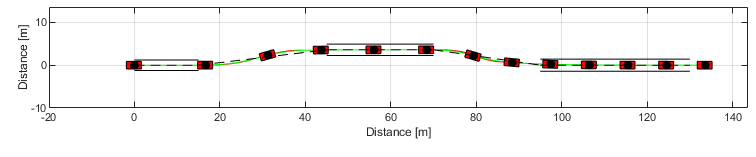
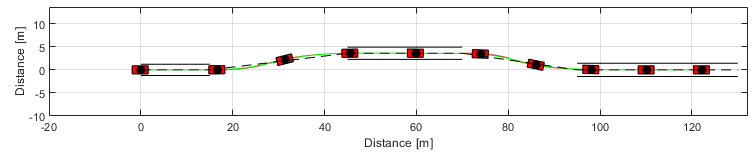
fix steering control simple

diff --git a/Examples/SteeringControlSimple/html/SteeringControlSimple.html b/Examples/SteeringControlSimple/html/SteeringControlSimple.html
@@ -6,7 +6,7 @@
    <!--
 This HTML was auto-generated from MATLAB code.
 To make changes, update the MATLAB code and republish this document.
-      --><title>Steering Control Simple</title><meta name="generator" content="MATLAB 9.7"><link rel="schema.DC" href="http://purl.org/dc/elements/1.1/"><meta name="DC.date" content="2020-12-21"><meta name="DC.source" content="SteeringControlSimple.m"><style type="text/css">
+      --><title>Steering Control Simple</title><meta name="generator" content="MATLAB 9.7"><link rel="schema.DC" href="http://purl.org/dc/elements/1.1/"><meta name="DC.date" content="2021-01-21"><meta name="DC.source" content="SteeringControlSimple.m"><style type="text/css">
 html,body,div,span,applet,object,iframe,h1,h2,h3,h4,h5,h6,p,blockquote,pre,a,abbr,acronym,address,big,cite,code,del,dfn,em,font,img,ins,kbd,q,s,samp,small,strike,strong,sub,sup,tt,var,b,u,i,center,dl,dt,dd,ol,ul,li,fieldset,form,label,legend,table,caption,tbody,tfoot,thead,tr,th,td{margin:0;padding:0;border:0;outline:0;font-size:100%;vertical-align:baseline;background:transparent}body{line-height:1}ol,ul{list-style:none}blockquote,q{quotes:none}blockquote:before,blockquote:after,q:before,q:after{content:'';content:none}:focus{outine:0}ins{text-decoration:none}del{text-decoration:line-through}table{border-collapse:collapse;border-spacing:0}
 
 html { min-height:100%; margin-bottom:1px; }
@@ -68,7 +68,7 @@ table td { padding:7px 5px; text-align:left; vertical-align:top; border:1px soli
 
   </style></head><body><div class="content"><h1>Steering Control Simple</h1><!--introduction--><p>Steering Control of Autonomous Vehicles in Obstacle Avoidance Maneuvers.</p><p><img vspace="5" hspace="5" src="SteeringControlSimple.gif" alt=""> </p><p>
 <script src='https://cdn.mathjax.org/mathjax/latest/MathJax.js?config=TeX-AMS-MML_HTMLorMML'></script>
-</p><!--/introduction--><h2>Contents</h2><div><ul><li><a href="#1">Vehicle model</a></li><li><a href="#2">Tire model</a></li><li><a href="#4">Plant model</a></li><li><a href="#5">Controller design</a></li><li><a href="#17">Double Lane Change Maneuver</a></li><li><a href="#18">See Also</a></li></ul></div><h2 id="1">Vehicle model</h2><p><b>Bicycle model</b></p><p><img vspace="5" hspace="5" src="../../../docs/illustrations/modelSimple.svg" alt=""> </p><p><b>Nonlinear model</b></p><p>State vector</p><p>\[ {\bf x} = \left[ \begin{array}{c} {\rm x}_1 \\ {\rm x}_2 \\ {\rm x}_3 \\ {\rm x}_4 \\ {\rm x}_5 \\ {\rm x}_6 \end{array} \right] = \left[ \begin{array}{c} x \\ y \\ \psi \\ v_{\rm T} \\ \alpha_{\rm T} \\ \dot{\psi} \end{array} \right] \]</p><p>State equations</p><p>\[ \dot{{\rm x}}_1 = {\rm x}_4 \cos \left( {\rm x}_3 + {\rm x}_5 \right) \]</p><p>\[ \dot{{\rm x}}_2 = {\rm x}_4 \sin \left( {\rm x}_3 + {\rm x}_5 \right) \]</p><p>\[ \dot{{\rm x}}_3 = {\rm x}_6 \]</p><p>\[ \dot{{\rm x}}_4 = \frac{F_{y,{\rm F}} \sin \left( {\rm x}_5 - \delta \right) + F_{y,{\rm R}} \sin {\rm x}_5}{m_{T}} \]</p><p>\[ \dot{{\rm x}}_5 = \frac{F_{y,{\rm F}} \cos \left( {\rm x}_5 - \delta \right) + F_{y,{\rm R}} \cos \alpha_{\rm T} - m_{T} {\rm x}_4 {\rm x}_6}{m_{T} {\rm x}_4} \]</p><p>\[ \dot{{\rm x}}_6 = \frac{F_{y,{\rm F}} a \cos \delta - F_{y,{\rm R}} b}{I_{T}} \]</p><p>Slip angles</p><p>\[ \alpha_{\rm F} = \arctan \left( \frac{v_{\rm T} \sin \alpha_{\rm T} + a \dot{\psi}}{ v_{\rm T} \cos \alpha_{\rm T}} \right) - \delta \]</p><p>\[ \alpha_{\rm R} = \arctan \left( \frac{v_{\rm T} \sin \alpha_{\rm T} - b \dot{\psi}}{ v_{\rm T} \cos \alpha_{\rm T}} \right) \]</p><p><b>Linear model</b></p><p>\[ \dot{x} = v_{\rm T} \]</p><p>\[ \dot{y} = v_{{\rm T},0} \left( \psi + \alpha_{{\rm T}}\right) \]</p><p>\[ \dot{\psi} = \dot{\psi} \]</p><p>\[ \dot{v}_{\rm T} = 0 \]</p><p>\[ \dot{\alpha}_{\rm T} = \frac{F_{y,{\rm F}} + F_{y,{\rm R}}}{m_{T} v_{{\rm T},0}} - \dot{\psi} \]</p><p>\[ \ddot{\psi} = \frac{a F_{y,{\rm F}} -  b F_{y,{\rm R}}}{I_{T}} \]</p><p>Neglecting equations of \(x\) and \(v_T\)</p><p>\[ \left[ \begin{array}{c} \dot{y} \\ \dot{\psi} \\ \dot{\alpha}_T \\ \ddot{\psi} \end{array} \right] = \left[ \begin{array}{cccc} 0 &amp; v_{T,0} &amp; v_{T,0} &amp; 0 \\ 0 &amp; 0 &amp; 0 &amp; 1 \\ 0 &amp; 0 &amp; -\frac{K_F+K_R}{m_T v_{T,0}} &amp; - \frac{m_T v_{T,0} + \frac{a K_F - b K_R}{v_{T,0}}}{m_T v_{T,0}} \\ 0 &amp; 0 &amp; - \frac{a K_F - b K_R}{I_T} &amp; - \frac{a^2 K_F + b^2 K_R}{I_T v_{T,0}} \end{array} \right] \left[ \begin{array}{c} y \\ \psi \\ \alpha_T \\ \dot{\psi} \end{array} \right] + \left[ \begin{array}{c} 0 \\ 0 \\ \frac{K_F}{m_T v_{T,0}} \\ \frac{a K_F}{I_T}  \end{array} \right] \delta \]</p><p>Slip angles</p><p>\[ \alpha_{{\rm F},lin} = \alpha_{{\rm T}} + \frac{a}{v_{{\rm T},0}} \dot{\psi} - \delta \]</p><p>\[ \alpha_{{\rm F},lin} = \alpha_{{\rm T}} - \frac{b}{v_{{\rm T},0}} \dot{\psi} \]</p><h2 id="2">Tire model</h2><p>Typical characteristic curve and slip angle definition</p><p><img vspace="5" hspace="5" src="../../../docs/illustrations/CurvaCaracteristica.svg" alt=""> </p><p><b>Pacejka</b></p><p>\[ F_{y} = D \sin \left[ C \arctan{B \alpha - E( B \alpha -\arctan(B \alpha))} \right] \]</p><p><b>Linear</b></p><p>\[ F_ y = K \alpha \]</p><pre class="codeinput">clear ; close <span class="string">all</span> ; clc
+</p><!--/introduction--><h2>Contents</h2><div><ul><li><a href="#1">Vehicle model</a></li><li><a href="#2">Tire model</a></li><li><a href="#4">Plant model</a></li><li><a href="#5">Controller design</a></li><li><a href="#17">Double Lane Change Maneuver</a></li><li><a href="#18">See Also</a></li></ul></div><h2 id="1">Vehicle model</h2><p><b>Nonlinear model</b></p><p>State vector</p><p>\[ {\bf x} = \left[ \begin{array}{c} {\rm x}_1 \\ {\rm x}_2 \\ {\rm x}_3 \\ {\rm x}_4 \\ {\rm x}_5 \\ {\rm x}_6 \end{array} \right] = \left[ \begin{array}{c} x \\ y \\ \psi \\ v_{\rm T} \\ \alpha_{\rm T} \\ \dot{\psi} \end{array} \right] \]</p><p>State equations</p><p>\[ \dot{{\rm x}}_1 = {\rm x}_4 \cos \left( {\rm x}_3 + {\rm x}_5 \right) \]</p><p>\[ \dot{{\rm x}}_2 = {\rm x}_4 \sin \left( {\rm x}_3 + {\rm x}_5 \right) \]</p><p>\[ \dot{{\rm x}}_3 = {\rm x}_6 \]</p><p>\[ \dot{{\rm x}}_4 = \frac{F_{y,{\rm F}} \sin \left( {\rm x}_5 - \delta \right) + F_{y,{\rm R}} \sin {\rm x}_5}{m_{T}} \]</p><p>\[ \dot{{\rm x}}_5 = \frac{F_{y,{\rm F}} \cos \left( {\rm x}_5 - \delta \right) + F_{y,{\rm R}} \cos \alpha_{\rm T} - m_{T} {\rm x}_4 {\rm x}_6}{m_{T} {\rm x}_4} \]</p><p>\[ \dot{{\rm x}}_6 = \frac{F_{y,{\rm F}} a \cos \delta - F_{y,{\rm R}} b}{I_{T}} \]</p><p>Slip angles</p><p>\[ \alpha_{\rm F} = \arctan \left( \frac{v_{\rm T} \sin \alpha_{\rm T} + a \dot{\psi}}{ v_{\rm T} \cos \alpha_{\rm T}} \right) - \delta \]</p><p>\[ \alpha_{\rm R} = \arctan \left( \frac{v_{\rm T} \sin \alpha_{\rm T} - b \dot{\psi}}{ v_{\rm T} \cos \alpha_{\rm T}} \right) \]</p><p><b>Linear model</b></p><p>\[ \dot{x} = v_{\rm T} \]</p><p>\[ \dot{y} = v_{{\rm T},0} \left( \psi + \alpha_{{\rm T}}\right) \]</p><p>\[ \dot{\psi} = \dot{\psi} \]</p><p>\[ \dot{v}_{\rm T} = 0 \]</p><p>\[ \dot{\alpha}_{\rm T} = \frac{F_{y,{\rm F}} + F_{y,{\rm R}}}{m_{T} v_{{\rm T},0}} - \dot{\psi} \]</p><p>\[ \ddot{\psi} = \frac{a F_{y,{\rm F}} -  b F_{y,{\rm R}}}{I_{T}} \]</p><p>Neglecting equations of \(x\) and \(v_T\)</p><p>\[ \left[ \begin{array}{c} \dot{y} \\ \dot{\psi} \\ \dot{\alpha}_T \\ \ddot{\psi} \end{array} \right] = \left[ \begin{array}{cccc} 0 &amp; v_{T,0} &amp; v_{T,0} &amp; 0 \\ 0 &amp; 0 &amp; 0 &amp; 1 \\ 0 &amp; 0 &amp; -\frac{K_F+K_R}{m_T v_{T,0}} &amp; - \frac{m_T v_{T,0} + \frac{a K_F - b K_R}{v_{T,0}}}{m_T v_{T,0}} \\ 0 &amp; 0 &amp; - \frac{a K_F - b K_R}{I_T} &amp; - \frac{a^2 K_F + b^2 K_R}{I_T v_{T,0}} \end{array} \right] \left[ \begin{array}{c} y \\ \psi \\ \alpha_T \\ \dot{\psi} \end{array} \right] + \left[ \begin{array}{c} 0 \\ 0 \\ \frac{K_F}{m_T v_{T,0}} \\ \frac{a K_F}{I_T}  \end{array} \right] \delta \]</p><p>Slip angles</p><p>\[ \alpha_{{\rm F},lin} = \alpha_{{\rm T}} + \frac{a}{v_{{\rm T},0}} \dot{\psi} - \delta \]</p><p>\[ \alpha_{{\rm F},lin} = \alpha_{{\rm T}} - \frac{b}{v_{{\rm T},0}} \dot{\psi} \]</p><h2 id="2">Tire model</h2><p>Typical characteristic curve and slip angle definition</p><p><img vspace="5" hspace="5" src="../../../docs/illustrations/CurvaCaracteristica.svg" alt=""> </p><p><b>Pacejka</b></p><p>\[ F_{y} = D \sin \left[ C \arctan{B \alpha - E( B \alpha -\arctan(B \alpha))} \right] \]</p><p><b>Linear</b></p><p>\[ F_ y = K \alpha \]</p><pre class="codeinput">clear ; close <span class="string">all</span> ; clc
 
 slipAngle = (0:0.1:15)*pi/180;         <span class="comment">% Slip angle [rad]</span>
 
@@ -113,10 +113,10 @@ BCD     = TirePac.a3 * sin(2 * atan(Fz/1000/TirePac.a4))*(1-TirePac.a5 * abs(cam
 
 <span class="comment">% Pneu linear equivalente</span>
 
-Ktire = BCD * 180/pi;
+Ktire   = BCD * 180/pi;
 
-TireLin = VehicleDynamicsLateral.TireLinear();
-TireLin.k = Ktire;
+TireLin     = VehicleDynamicsLateral.TireLinear();
+TireLin.k   = Ktire;
 
 <span class="comment">% Lateral force</span>
 FyPac = TirePac.Characteristic(slipAngle, Fz, muy0/1000);
@@ -155,7 +155,7 @@ VehiclePlant.deltaf = @ControlLaw;
 disp(VehiclePlant)
 
 <span class="comment">% Choosing simulation</span>
-T       = 12;                     <span class="comment">% Total simulation time             [s]</span>
+T       = 9;                     <span class="comment">% Total simulation time             [s]</span>
 resol   = 500;                    <span class="comment">% Resolution</span>
 TSPAN   = 0:T/resol:T;            <span class="comment">% Time span                         [s]</span>
 
@@ -176,7 +176,7 @@ simulator.V0 = 16.7;
        muy: 1
       tire: [1&times;1 VehicleDynamicsLateral.TirePacejka]
     deltaf: @ControlLaw
-    deltar: []
+    deltar: 0
        Fxf: 0
        Fxr: 0
 
@@ -214,17 +214,17 @@ C = [1 0 0 0];
 </pre><p>C</p><pre class="codeinput">disp(C)
 </pre><pre class="codeoutput">     1     0     0     0
 
-</pre><p><b>LQR design</b></p><pre class="codeinput">Q = [   3 0 0 0 ;<span class="keyword">...</span>
-        0 1 0 0 ;<span class="keyword">...</span>
-        0 0 1 0 ;<span class="keyword">...</span>
-        0 0 0 1 ];
+</pre><p><b>LQR design</b></p><pre class="codeinput">Q = [   0.3 0 0 0 ;<span class="keyword">...</span>
+        0   1 0 0 ;<span class="keyword">...</span>
+        0   0 1 0 ;<span class="keyword">...</span>
+        0   0 0 1 ];
 </pre><p>Q</p><pre class="codeinput">disp(Q)
 
 R = 1;
-</pre><pre class="codeoutput">     3     0     0     0
-     0     1     0     0
-     0     0     1     0
-     0     0     0     1
+</pre><pre class="codeoutput">    0.3000         0         0         0
+         0    1.0000         0         0
+         0         0    1.0000         0
+         0         0         0    1.0000
 
 </pre><p>R</p><pre class="codeinput">disp(R)
 
@@ -232,7 +232,7 @@ Klqr = lqr(A,B,Q,R);
 </pre><pre class="codeoutput">     1
 
 </pre><p>Klqr</p><pre class="codeinput">disp(Klqr)
-</pre><pre class="codeoutput">    1.7321    6.8987    2.5832    0.5898
+</pre><pre class="codeoutput">    0.5477    4.4651    1.0744    0.8169
 
 </pre><p><b>Pole placement design</b></p><pre class="codeinput">polos = [-6 -6.3 -6.7 -7];
 
@@ -240,7 +240,7 @@ Kplace = place(A,B,polos);
 </pre><p>Kplace</p><pre class="codeinput">disp(Kplace)
 </pre><pre class="codeoutput">    0.7936    6.6882    1.6107    0.5090
 
-</pre><p>Control law</p><p>\[\delta = - {\bf K} {\bf z} + K_1 r \]</p><h2 id="17">Double Lane Change Maneuver</h2><p><b>Control - Step y</b></p><p>Reference - r = 2 m</p><p>\[ \delta_{max} = \pm 70 deg \]</p><pre class="codeinput"><span class="comment">% Simulation</span>
+</pre><p>Control law</p><p>\[\delta = - {\bf K} {\bf z} + K_1 r \]</p><h2 id="17">Double Lane Change Maneuver</h2><pre class="codeinput"><span class="comment">% Simulation</span>
 simulator.Simulate();
 
 g = VehicleDynamicsLateral.Graphics(simulator);
@@ -282,14 +282,16 @@ g.Frame();
     plot([95 130],[0 0],<span class="string">'k--'</span>)
 
 g.Animation();
+g.Animation();
+<span class="comment">% g.Animation('html/SteeringControlSimple');       % Uncomment to save animation gif</span>
 
 <span class="comment">% Retrieving states</span>
-XT = simulator.XT;
-YT = simulator.YT;
-PSI = simulator.PSI;
-VEL = simulator.VEL;
-ALPHAT = simulator.ALPHAT;
-dPSI = simulator.dPSI;
+XT      = simulator.XT;
+YT      = simulator.YT;
+PSI     = simulator.PSI;
+VEL     = simulator.VEL;
+ALPHAT  = simulator.ALPHAT;
+dPSI    = simulator.dPSI;
 
 x = [YT PSI ALPHAT dPSI];
 
@@ -311,7 +313,7 @@ LateralDisp = 3.6;
 
     u(ii) = - Kplace*x(ii,:)' + Kplace(1)*r;
 
-    <span class="comment">% Saturation at 42 deg</span>
+    <span class="comment">% Saturation</span>
     <span class="keyword">if</span> abs(u(ii)) &lt; 42*pi/180
         output(ii) = u(ii);
     <span class="keyword">else</span>
@@ -358,10 +360,6 @@ set(y,<span class="string">'Interpreter'</span>,<span class="string">'Latex'</sp
 % </html>
 %
 %% Vehicle model
-% *Bicycle model*
-%
-% <<../../../docs/illustrations/modelSimple.svg>>
-%
 % *Nonlinear model*
 %
 % State vector
@@ -474,10 +472,10 @@ BCD     = TirePac.a3 * sin(2 * atan(Fz/1000/TirePac.a4))*(1-TirePac.a5 * abs(cam
 
 % Pneu linear equivalente
 
-Ktire = BCD * 180/pi;
+Ktire   = BCD * 180/pi;
 
-TireLin = VehicleDynamicsLateral.TireLinear();
-TireLin.k = Ktire;
+TireLin     = VehicleDynamicsLateral.TireLinear();
+TireLin.k   = Ktire;
 
 % Lateral force
 FyPac = TirePac.Characteristic(slipAngle, Fz, muy0/1000);
@@ -523,7 +521,7 @@ VehiclePlant.deltaf = @ControlLaw;
 disp(VehiclePlant)
 
 % Choosing simulation
-T       = 12;                     % Total simulation time             [s]
+T       = 9;                     % Total simulation time             [s]
 resol   = 500;                    % Resolution
 TSPAN   = 0:T/resol:T;            % Time span                         [s]
 
@@ -572,10 +570,10 @@ disp(C)
 % *LQR design*
 %
 
-Q = [   3 0 0 0 ;...
-        0 1 0 0 ;...
-        0 0 1 0 ;...
-        0 0 0 1 ];
+Q = [   0.3 0 0 0 ;...
+        0   1 0 0 ;...
+        0   0 1 0 ;...
+        0   0 0 1 ];
 
 %%
 % Q
@@ -615,11 +613,6 @@ disp(Kplace)
 % \[\delta = - {\bf K} {\bf z} + K_1 r \]
 %
 %% Double Lane Change Maneuver
-% *Control - Step y*
-%
-% Reference - r = 2 m
-%
-% \[ \delta_{max} = \pm 70 deg \]
 
 % Simulation
 simulator.Simulate();
@@ -663,14 +656,16 @@ g.Frame();
     plot([95 130],[0 0],'kREPLACE_WITH_DASH_DASH')
 
 g.Animation();
+g.Animation();
+% g.Animation('html/SteeringControlSimple');       % Uncomment to save animation gif
 
 % Retrieving states
-XT = simulator.XT;
-YT = simulator.YT;
-PSI = simulator.PSI;
-VEL = simulator.VEL;
-ALPHAT = simulator.ALPHAT;
-dPSI = simulator.dPSI;
+XT      = simulator.XT;
+YT      = simulator.YT;
+PSI     = simulator.PSI;
+VEL     = simulator.VEL;
+ALPHAT  = simulator.ALPHAT;
+dPSI    = simulator.dPSI;
 
 x = [YT PSI ALPHAT dPSI];
 
@@ -692,7 +687,7 @@ for ii = 1:length(TSPAN)
 
     u(ii) = - Kplace*x(ii,:)' + Kplace(1)*r;
 
-    % Saturation at 42 deg
+    % Saturation
     if abs(u(ii)) < 42*pi/180
         output(ii) = u(ii);
     else

diff --git a/docs/DocVehicleSimpleNonlinear/html/DocVehicleSimpleNonlinear.html b/docs/DocVehicleSimpleNonlinear/html/DocVehicleSimpleNonlinear.html
@@ -6,7 +6,7 @@
    <!--
 This HTML was auto-generated from MATLAB code.
 To make changes, update the MATLAB code and republish this document.
-      --><title>Vehicle Simple Nonlinear Modeling</title><meta name="generator" content="MATLAB 9.7"><link rel="schema.DC" href="http://purl.org/dc/elements/1.1/"><meta name="DC.date" content="2020-12-21"><meta name="DC.source" content="DocVehicleSimpleNonlinear.m"><style type="text/css">
+      --><title>Vehicle Simple Nonlinear Modeling</title><meta name="generator" content="MATLAB 9.7"><link rel="schema.DC" href="http://purl.org/dc/elements/1.1/"><meta name="DC.date" content="2020-12-22"><meta name="DC.source" content="DocVehicleSimpleNonlinear.m"><style type="text/css">
 html,body,div,span,applet,object,iframe,h1,h2,h3,h4,h5,h6,p,blockquote,pre,a,abbr,acronym,address,big,cite,code,del,dfn,em,font,img,ins,kbd,q,s,samp,small,strike,strong,sub,sup,tt,var,b,u,i,center,dl,dt,dd,ol,ul,li,fieldset,form,label,legend,table,caption,tbody,tfoot,thead,tr,th,td{margin:0;padding:0;border:0;outline:0;font-size:100%;vertical-align:baseline;background:transparent}body{line-height:1}ol,ul{list-style:none}blockquote,q{quotes:none}blockquote:before,blockquote:after,q:before,q:after{content:'';content:none}:focus{outine:0}ins{text-decoration:none}del{text-decoration:line-through}table{border-collapse:collapse;border-spacing:0}
 
 html { min-height:100%; margin-bottom:1px; }
@@ -66,7 +66,7 @@ table td { padding:7px 5px; text-align:left; vertical-align:top; border:1px soli
 
 
 
-  </style></head><body><div class="content"><h1>Vehicle Simple Nonlinear Modeling</h1><!--introduction--><p>This scipt derives the equations of motion from the nonlinear simple vehicle model.</p><p>For class documentation, run:</p><p><tt>doc VehicleDynamicsLateral.VehicleArticulatedNonlinear</tt></p><p>
+  </style></head><body><div class="content"><h1>Vehicle Simple Nonlinear Modeling</h1><!--introduction--><p>This scipt derives the equations of motion from the nonlinear simple vehicle model.</p><p>For class documentation, run:</p><p><tt>doc VehicleDynamicsLateral.VehicleSimpleNonlinear</tt></p><p>
 <!--
 MathJax
 Source: http://docs.mathjax.org/en/latest/start.html
@@ -410,7 +410,7 @@ ddTddq = diff(dTddq,t);
     \begin{eqnarray}
     \nonumber {\rm x}_1 &=& x 				\\
     \nonumber {\rm x}_2 &=& y 				\\
-    \nonumber {\rm x}_3 &=& \psi 			\\
+    \nonumber {\rm x}_3 &=& \psi              \\
     \nonumber {\rm x}_4 &=& v_{\rm T} 		\\
     \nonumber {\rm x}_5 &=& \alpha_{\rm T} 	\\
     \nonumber {\rm x}_6 &=& \dot{\psi}
@@ -424,7 +424,7 @@ ddTddq = diff(dTddq,t);
     \nonumber \dot{{\rm x}}_3 &=& \dot{\psi} \\
     \nonumber \dot{{\rm x}}_4 &=& \frac{F_{x,{\rm F}} \cos \left( \alpha_{\rm T} - \delta_{\rm F} \right) + F_{x,{\rm R}} \cos \left( \alpha_{\rm T} -\delta_{\rm R} \right) + F_{y,{\rm F}} \sin \left( \alpha_{\rm T} - \delta_{\rm F} \right) + F_{y,{\rm R}} \sin \left( \alpha_{\rm T} - delta_{\rm R} \right) }{m_{\rm T}} \\
     \nonumber \dot{{\rm x}}_5 &=&  \frac{- F_{x,{\rm F}} \sin \left( \alpha_{\rm T} - \delta_{\rm F} \right) - F_{x,{\rm R}} \sin \left( \alpha_{\rm T} - \delta_{\rm R} \right) + F_{y,{\rm F}} \cos \left( \alpha_{\rm T} - \delta_{\rm F} \right) + F_{y,{\rm R}} \cos \left( \alpha_{\rm T} - \delta_{\rm R} \right) - m_{\rm T} v \dot{\psi}}{m_{\rm T} v_{\rm T}} \\
-    \nonumber \dot{{\rm x}}_6 &=& \frac{F_{x,{\rm F}} a \sin \delta  + F_{y,{\rm F}} a \cos \delta - F_{y,{\rm R}} b}{I_{\rm T}}.
+    \dot{{\rm x}}_6 &=& \frac{F_{x,{\rm F}} a \sin \delta  + F_{y,{\rm F}} a \cos \delta - F_{y,{\rm R}} b}{I_{\rm T}}. \label{eq:stateequationnonlinear3dof}
     \end{eqnarray}
 </p>
 <p>The nonlinear model of the package uses equations in \ref{eq:stateequationnonlinear3dof} with slip angles defined in \ref{eq:slipanglesnewvariables}</p>
@@ -457,7 +457,7 @@ disp(f)
 %
 % For class documentation, run:
 %
-% |doc VehicleDynamicsLateral.VehicleArticulatedNonlinear|
+% |doc VehicleDynamicsLateral.VehicleSimpleNonlinear|
 %
 % <html>
 % <!REPLACE_WITH_DASH_DASH
@@ -867,7 +867,7 @@ ddTddq = diff(dTddq,t);
 %     \begin{eqnarray}
 %     \nonumber {\rm x}_1 &=& x 				\\
 %     \nonumber {\rm x}_2 &=& y 				\\
-%     \nonumber {\rm x}_3 &=& \psi 			\\
+%     \nonumber {\rm x}_3 &=& \psi              \\
 %     \nonumber {\rm x}_4 &=& v_{\rm T} 		\\
 %     \nonumber {\rm x}_5 &=& \alpha_{\rm T} 	\\
 %     \nonumber {\rm x}_6 &=& \dot{\psi}
@@ -881,7 +881,7 @@ ddTddq = diff(dTddq,t);
 %     \nonumber \dot{{\rm x}}_3 &=& \dot{\psi} \\
 %     \nonumber \dot{{\rm x}}_4 &=& \frac{F_{x,{\rm F}} \cos \left( \alpha_{\rm T} - \delta_{\rm F} \right) + F_{x,{\rm R}} \cos \left( \alpha_{\rm T} -\delta_{\rm R} \right) + F_{y,{\rm F}} \sin \left( \alpha_{\rm T} - \delta_{\rm F} \right) + F_{y,{\rm R}} \sin \left( \alpha_{\rm T} - delta_{\rm R} \right) }{m_{\rm T}} \\
 %     \nonumber \dot{{\rm x}}_5 &=&  \frac{- F_{x,{\rm F}} \sin \left( \alpha_{\rm T} - \delta_{\rm F} \right) - F_{x,{\rm R}} \sin \left( \alpha_{\rm T} - \delta_{\rm R} \right) + F_{y,{\rm F}} \cos \left( \alpha_{\rm T} - \delta_{\rm F} \right) + F_{y,{\rm R}} \cos \left( \alpha_{\rm T} - \delta_{\rm R} \right) - m_{\rm T} v \dot{\psi}}{m_{\rm T} v_{\rm T}} \\
-%     \nonumber \dot{{\rm x}}_6 &=& \frac{F_{x,{\rm F}} a \sin \delta  + F_{y,{\rm F}} a \cos \delta - F_{y,{\rm R}} b}{I_{\rm T}}.
+%     \dot{{\rm x}}_6 &=& \frac{F_{x,{\rm F}} a \sin \delta  + F_{y,{\rm F}} a \cos \delta - F_{y,{\rm R}} b}{I_{\rm T}}. \label{eq:stateequationnonlinear3dof}
 %     \end{eqnarray}
 % </p>
 % <p>The nonlinear model of the package uses equations in \ref{eq:stateequationnonlinear3dof} with slip angles defined in \ref{eq:slipanglesnewvariables}</p>

diff --git a/docs/DocVehicleSimpleNonlinear/DocVehicleSimpleNonlinear.m b/docs/DocVehicleSimpleNonlinear/DocVehicleSimpleNonlinear.m
@@ -4,7 +4,7 @@
 %
 % For class documentation, run:
 %
-% |doc VehicleDynamicsLateral.VehicleArticulatedNonlinear|
+% |doc VehicleDynamicsLateral.VehicleSimpleNonlinear|
 %
 % <html>
 % <!--
@@ -414,7 +414,7 @@ ddTddq = diff(dTddq,t);
 %     \begin{eqnarray}
 %     \nonumber {\rm x}_1 &=& x 				\\
 %     \nonumber {\rm x}_2 &=& y 				\\
-%     \nonumber {\rm x}_3 &=& \psi 			\\
+%     \nonumber {\rm x}_3 &=& \psi              \\
 %     \nonumber {\rm x}_4 &=& v_{\rm T} 		\\
 %     \nonumber {\rm x}_5 &=& \alpha_{\rm T} 	\\
 %     \nonumber {\rm x}_6 &=& \dot{\psi}
@@ -428,7 +428,7 @@ ddTddq = diff(dTddq,t);
 %     \nonumber \dot{{\rm x}}_3 &=& \dot{\psi} \\
 %     \nonumber \dot{{\rm x}}_4 &=& \frac{F_{x,{\rm F}} \cos \left( \alpha_{\rm T} - \delta_{\rm F} \right) + F_{x,{\rm R}} \cos \left( \alpha_{\rm T} -\delta_{\rm R} \right) + F_{y,{\rm F}} \sin \left( \alpha_{\rm T} - \delta_{\rm F} \right) + F_{y,{\rm R}} \sin \left( \alpha_{\rm T} - delta_{\rm R} \right) }{m_{\rm T}} \\
 %     \nonumber \dot{{\rm x}}_5 &=&  \frac{- F_{x,{\rm F}} \sin \left( \alpha_{\rm T} - \delta_{\rm F} \right) - F_{x,{\rm R}} \sin \left( \alpha_{\rm T} - \delta_{\rm R} \right) + F_{y,{\rm F}} \cos \left( \alpha_{\rm T} - \delta_{\rm F} \right) + F_{y,{\rm R}} \cos \left( \alpha_{\rm T} - \delta_{\rm R} \right) - m_{\rm T} v \dot{\psi}}{m_{\rm T} v_{\rm T}} \\
-%     \nonumber \dot{{\rm x}}_6 &=& \frac{F_{x,{\rm F}} a \sin \delta  + F_{y,{\rm F}} a \cos \delta - F_{y,{\rm R}} b}{I_{\rm T}}.
+%     \dot{{\rm x}}_6 &=& \frac{F_{x,{\rm F}} a \sin \delta  + F_{y,{\rm F}} a \cos \delta - F_{y,{\rm R}} b}{I_{\rm T}}. \label{eq:stateequationnonlinear3dof}
 %     \end{eqnarray}
 % </p>
 % <p>The nonlinear model of the package uses equations in \ref{eq:stateequationnonlinear3dof} with slip angles defined in \ref{eq:slipanglesnewvariables}</p>

diff --git a/Examples/SteeringControlSimple/ControlLaw.m b/Examples/SteeringControlSimple/ControlLaw.m
@@ -19,11 +19,11 @@ function output = ControlLaw(input,~)
         r = 0;
     end
 
-    % Control gain
-    K = [0.7936    6.6882    1.6107    0.5090];
+    % Control gain LQR
+    K = [0.5477    4.4651    1.0744    0.8169];
     u = - K*x + K(1)*r;
 
-    % Saturation at 70 deg
+    % Saturation
     if abs(u) < 42*pi/180
         output = u;
     else
